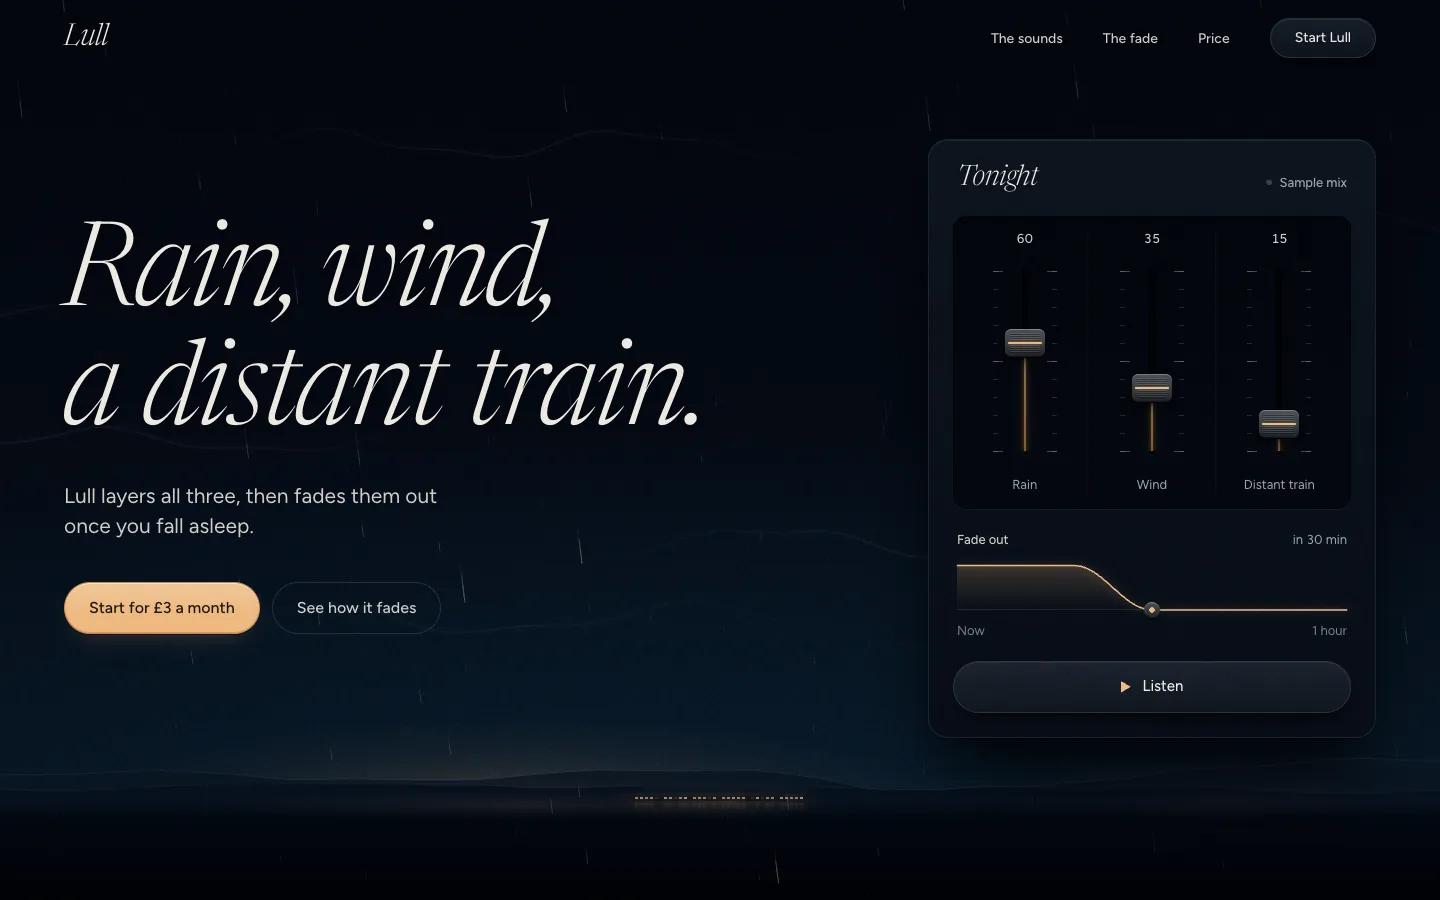
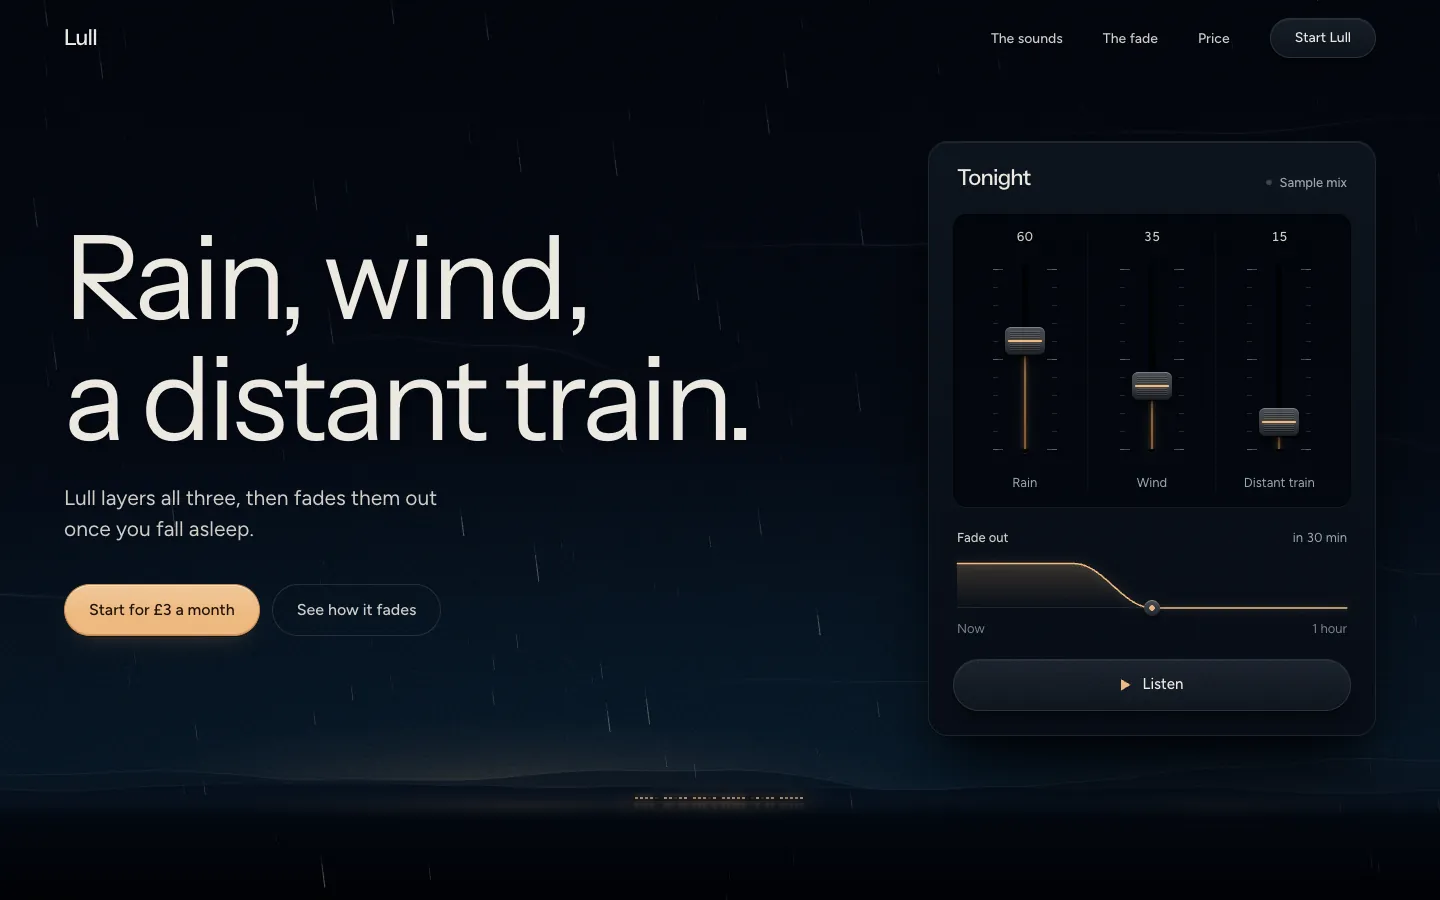
Site: the comparison shows a webhook API in place of sleep sounds, and the Ribbon page and pictures take the new heads

diff --git a/site/themes/ribbon/style.css b/site/themes/ribbon/style.css
@@ -1,7 +1,6 @@
 /* Hallmark · shape: Night Notes (named here: the night mixed on one canvas behind a machined three-fader mixer that really plays, the app's own faders beside the three sounds, a far train photograph, the fade drawn as three levels falling together, the price under the same horizon) · genre: atmospheric · theme: Ribbon (by request) · ribbon: two-in-the-morning, deepened
  * hero: Stage, full-bleed night · nav: edge-aligned over the night · footer: letter close on the land · imagery: generated night (canvas), product built live, one photograph, library 1, muted sepia=14 · product sample in hero, in the app and in the fade
- * axes: dark/high-contrast-serif/warm-amber · posture: committed · contrast: pass · fold: pass · v2.8.0 */
-/* Hallmark · waive 38ii · every head on --font-display is true italic 300 with font-synthesis none, declared in the theme · the light italic is Ribbon's whole display voice */
+ * axes: dark/grotesk-sans/warm-amber · posture: committed · contrast: pass · fold: pass · v2.8.0 */
 @import url("./tokens.css");
 @import url("./base.css");
 
@@ -9,7 +8,7 @@
 
 html { background: var(--color-paper); }
 body { color: var(--color-muted); line-height: 1.6; background: var(--color-paper); font-feature-settings: "kern" 1; }
-h1, h2, h3 { font-style: italic; font-weight: 300; font-variation-settings: "opsz" 72; font-synthesis: none; line-height: 1.02; color: var(--color-ink); }
+h1, h2, h3 { font-weight: 400; font-synthesis: none; line-height: 1.04; color: var(--color-ink); }
 ::selection { background: var(--amber-82-a3-c095h68); color: var(--color-ink); }
 :focus-visible { outline: 2px solid var(--color-focus); outline-offset: 3px; }
 
@@ -48,7 +47,7 @@ h1, h2, h3 { font-style: italic; font-weight: 300; font-variation-settings: "ops
 .nav__links { display: flex; gap: var(--space-xl); margin: 0; padding: 0; list-style: none; }
 .nav__links a { font-size: var(--text-sm); font-weight: 500; color: var(--color-ink-2); text-decoration: underline; text-decoration-color: transparent; text-underline-offset: 0.4em; transition: color var(--dur-short) var(--ease-out), text-decoration-color var(--dur-short) var(--ease-out); }
 .nav__links a:hover { color: var(--color-ink); text-decoration-color: var(--color-accent); }
-.wordmark { font: italic 300 1.875rem/1 var(--font-display); font-variation-settings: "opsz" 72; letter-spacing: var(--tracking-display); color: var(--color-ink); text-decoration: none; transition: color var(--dur-short) var(--ease-out); }
+.wordmark { font: 500 1.375rem/1 var(--font-display); letter-spacing: var(--tracking-display); color: var(--color-ink); text-decoration: none; transition: color var(--dur-short) var(--ease-out); }
 .wordmark:hover { color: var(--color-accent); }
 
 /* ---------- The night: sky and land in CSS, rain, wind and the train on one canvas ---------- */
@@ -95,7 +94,7 @@ h1, h2, h3 { font-style: italic; font-weight: 300; font-variation-settings: "ops
 }
 .mixer::before { content: ""; position: absolute; inset: 0; border-radius: inherit; background-image: var(--grain, none); background-size: 160px 160px; opacity: 0.35; mix-blend-mode: soft-light; pointer-events: none; }
 .mixer__head { display: flex; align-items: baseline; justify-content: space-between; gap: var(--space-md); padding-inline: var(--space-2xs); }
-.mixer__title { font: italic 300 1.75rem/1 var(--font-display); font-variation-settings: "opsz" 72; letter-spacing: var(--tracking-display); color: var(--color-ink); }
+.mixer__title { font: 500 1.375rem/1.1 var(--font-display); letter-spacing: var(--tracking-display); color: var(--color-ink); }
 .mixer__status { display: inline-flex; align-items: center; gap: var(--space-xs); font: 500 var(--text-xs)/1 var(--font-body); color: var(--color-muted); font-variant-numeric: tabular-nums; }
 .led { width: 6px; height: 6px; border-radius: 50%; background: var(--night-38-c012h258); box-shadow: inset 0 1px 1px var(--black-a6); transition: background-color var(--dur-long) var(--ease-out), box-shadow var(--dur-long) var(--ease-out); }
 .is-playing .led { background: var(--color-accent); box-shadow: 0 0 0 3px var(--amber-82-a12-c095h68), 0 0 10px var(--amber-82-a7-c095h68); animation: breathe 3.2s var(--ease-in-out) infinite alternate; }
@@ -188,7 +187,7 @@ h1, h2, h3 { font-style: italic; font-weight: 300; font-variation-settings: "ops
 .sound-list li { display: grid; grid-template-columns: minmax(0, 1fr) auto; grid-template-areas: "name level" "line level"; column-gap: var(--space-xl); row-gap: var(--space-2xs); padding-block: var(--space-lg); border-bottom: var(--rule-hair) solid var(--color-rule); }
 .sound-list h3 { grid-area: name; font-size: var(--text-title); }
 .sound-list p { grid-area: line; }
-.sound-list__level { grid-area: level; align-self: center; min-width: 2ch; text-align: right; font: italic 300 var(--text-3xl)/1 var(--font-display); font-variation-settings: "opsz" 72; font-variant-numeric: lining-nums tabular-nums; color: var(--color-ink); }
+.sound-list__level { grid-area: level; align-self: center; min-width: 2ch; text-align: right; font: 400 var(--text-3xl)/1 var(--font-display); font-variant-numeric: lining-nums tabular-nums; color: var(--color-ink); }
 
 .mix__app { grid-column: 8 / -1; justify-self: center; display: grid; justify-items: center; gap: var(--space-md); }
 .phone { box-sizing: border-box; width: min(100%, 340px); margin: 0; padding: 28px 20px var(--space-lg); border-radius: 44px;
@@ -253,8 +252,8 @@ h1, h2, h3 { font-style: italic; font-weight: 300; font-variation-settings: "ops
 .close__text { grid-column: 1 / span 6; }
 .close__text .lead { margin-top: var(--space-lg); max-width: 34ch; color: var(--color-ink-2); }
 .close__figure { grid-column: 8 / -1; justify-self: end; display: flex; align-items: baseline; gap: var(--space-md); margin: 0; color: var(--color-ink); }
-.close__num { font: italic 300 clamp(6rem, 11vw, 11rem)/0.85 var(--font-display); font-variation-settings: "opsz" 72; letter-spacing: -0.03em; font-variant-numeric: lining-nums; }
-.close__per { font: italic 300 var(--text-2xl)/1 var(--font-display); font-variation-settings: "opsz" 72; color: var(--color-muted); }
+.close__num { font: 400 clamp(6rem, 11vw, 11rem)/0.85 var(--font-display); letter-spacing: -0.05em; font-variant-numeric: lining-nums; }
+.close__per { font: 400 var(--text-2xl)/1 var(--font-display); color: var(--color-muted); }
 .horizon { position: relative; --land: 0px; height: 1px; background: linear-gradient(to right, transparent, var(--night-78-a22-c03h245) 18%, var(--night-78-a22-c03h245) 82%, transparent); }
 .horizon .train { bottom: 3px; animation: cross 52s linear infinite; animation-delay: -14s; will-change: transform; }
 .horizon:not(.is-near) .train { animation-play-state: paused; }
@@ -263,7 +262,7 @@ h1, h2, h3 { font-style: italic; font-weight: 300; font-variation-settings: "ops
 /* ---------- Footer: a letter close on the land ---------- */
 .footer { padding-block: var(--space-3xl) var(--space-xl); background: linear-gradient(to bottom, var(--color-band), var(--night-8_5-c016h258)); }
 .footer__grid { display: grid; grid-template-columns: repeat(12, minmax(0, 1fr)); column-gap: var(--gap-columns); row-gap: var(--space-2xl); align-items: end; }
-.footer__signoff { grid-column: 1 / 8; font: italic 300 var(--text-section)/1.05 var(--font-display); font-variation-settings: "opsz" 72; letter-spacing: var(--tracking-display); color: var(--color-ink); }
+.footer__signoff { grid-column: 1 / 8; font: 400 var(--text-section)/1.05 var(--font-display); letter-spacing: var(--tracking-display); color: var(--color-ink); }
 .footer__links { grid-column: 8 / -1; display: flex; flex-wrap: wrap; justify-content: flex-end; gap: var(--space-xl); }
 .footer__links a { font-size: var(--text-sm); font-weight: 500; color: var(--color-ink-2); text-decoration: underline; text-decoration-color: var(--white-a2); text-underline-offset: 0.4em; transition: color var(--dur-short) var(--ease-out), text-decoration-color var(--dur-short) var(--ease-out); }
 .footer__links a:hover { color: var(--color-ink); text-decoration-color: var(--color-accent); }

diff --git a/site/index.html b/site/index.html
@@ -86,7 +86,7 @@
         <div class="cmp-tabs" role="tablist" aria-label="Prompts" data-cmp-tabs>
           <button class="pill" role="tab" type="button" aria-selected="true" aria-controls="cmp-stage" data-pair="0">Farm records</button>
           <button class="pill" role="tab" type="button" aria-selected="false" tabindex="-1" aria-controls="cmp-stage" data-pair="1">Bank reconciliation</button>
-          <button class="pill" role="tab" type="button" aria-selected="false" tabindex="-1" aria-controls="cmp-stage" data-pair="2">Sleep sounds</button>
+          <button class="pill" role="tab" type="button" aria-selected="false" tabindex="-1" aria-controls="cmp-stage" data-pair="2">Webhook API</button>
         </div>
         <div class="cmp-pin" data-cmp-pin>
         <div class="cmp" id="cmp-stage" role="tabpanel" data-cmp style="--at: 50%">
@@ -107,7 +107,7 @@
         </div>
         </div>
         <p class="cmp-note" data-cmp-note>The issue counts come from Hallmark’s linter. Scroll to read both pages, or drag the line.</p>
-        <script type="application/json" data-cmp-data>[{"id":"fieldbook","label":"Farm records","bareH":3748,"hmH":5713,"bare":26,"hm":0},{"id":"closewise","label":"Bank reconciliation","bareH":4335,"hmH":4097,"bare":11,"hm":0},{"id":"lull","label":"Sleep sounds","bareH":4058,"hmH":4120,"bare":19,"hm":0}]</script>
+        <script type="application/json" data-cmp-data>[{"id":"fieldbook","label":"Farm records","bareH":3748,"hmH":5713,"bare":26,"hm":0},{"id":"closewise","label":"Bank reconciliation","bareH":4335,"hmH":4097,"bare":11,"hm":0},{"id":"relay","label":"Webhook API","bareH":4049,"hmH":4984,"bare":18,"hm":0}]</script>
       </div>
     </section>
 
@@ -188,7 +188,7 @@
           <li class="th" data-genre="modern-minimal"><a class="th__link" href="themes/furrow/" data-slug="furrow" data-name="Furrow" data-mat="A practical farm office on warm paper, with one tangerine." data-genre-name="Modern minimal"><span class="th__shot"><img src="assets/themes/furrow.webp" width="400" height="250" alt="" loading="lazy"></span><span class="th__name">Furrow</span></a></li>
           <li class="th" data-genre="editorial"><a class="th__link" href="themes/studio/" data-slug="studio" data-name="Studio" data-mat="A design studio&#x27;s white wall, the work in true colour." data-genre-name="Editorial"><span class="th__shot"><img src="assets/themes/studio.webp" width="400" height="250" alt="" loading="lazy"></span><span class="th__name">Studio</span></a></li>
           <li class="th" data-genre="editorial"><a class="th__link" href="themes/atelier/" data-slug="atelier" data-name="Atelier" data-mat="A quiet studio in warm daylight, limewash and umber." data-genre-name="Editorial"><span class="th__shot"><img src="assets/themes/atelier.webp" width="400" height="250" alt="" loading="lazy"></span><span class="th__name">Atelier</span></a></li>
-          <li class="th" data-genre="atmospheric"><a class="th__link" href="themes/ribbon/" data-slug="ribbon" data-name="Ribbon" data-mat="Light italics, soft pills and a copper wash." data-genre-name="Atmospheric"><span class="th__shot"><img src="assets/themes/ribbon.webp" width="400" height="250" alt="" loading="lazy"></span><span class="th__name">Ribbon</span></a></li>
+          <li class="th" data-genre="atmospheric"><a class="th__link" href="themes/ribbon/" data-slug="ribbon" data-name="Ribbon" data-mat="A quiet night, machined faders and one lit pill." data-genre-name="Atmospheric"><span class="th__shot"><img src="assets/themes/ribbon.webp" width="400" height="250" alt="" loading="lazy"></span><span class="th__name">Ribbon</span></a></li>
           <li class="th" data-genre="modern-minimal"><a class="th__link" href="themes/dose/" data-slug="dose" data-name="Dose" data-mat="A clinic-clean app with a pale green tint." data-genre-name="Modern minimal"><span class="th__shot"><img src="assets/themes/dose.webp" width="400" height="250" alt="" loading="lazy"></span><span class="th__name">Dose</span></a></li>
           <li class="th" data-genre="modern-minimal"><a class="th__link" href="themes/coral/" data-slug="coral" data-name="Coral" data-mat="A calm app on warm grey, with one coral signal." data-genre-name="Modern minimal"><span class="th__shot"><img src="assets/themes/coral.webp" width="400" height="250" alt="" loading="lazy"></span><span class="th__name">Coral</span></a></li>
           <li class="th" data-genre="atmospheric"><a class="th__link" href="themes/terminal/" data-slug="terminal" data-name="Terminal" data-mat="The page is a terminal, its pictures printed in type." data-genre-name="Atmospheric"><span class="th__shot"><img src="assets/themes/terminal.webp" width="400" height="250" alt="" loading="lazy"></span><span class="th__name">Terminal</span></a></li>

diff --git a/site/themes/ribbon/tokens.css b/site/themes/ribbon/tokens.css
@@ -38,11 +38,11 @@
   --shadow-part: 0 1px 0 oklch(0% 0 0 / 0.55), 0 10px 18px -6px oklch(0% 0 0 / 0.6);
   --shadow-panel: 0 1px 0 oklch(0% 0 0 / 0.5), 0 24px 48px -16px oklch(4% 0.02 258 / 0.85), 0 64px 96px -32px oklch(4% 0.02 258 / 0.7);
 
-  --font-display: "Newsreader", Georgia, serif; --font-body: "Figtree", ui-sans-serif, system-ui, sans-serif;
+  --font-display: "Instrument Sans", ui-sans-serif, system-ui, sans-serif; --font-body: "Figtree", ui-sans-serif, system-ui, sans-serif;
   --font-outlier: "JetBrains Mono", ui-monospace, monospace;
   --radius-card: 20px; --radius-part: 6px; --radius-pill: 999px; --rule-hair: 1px;
   --shadow-card: none;
-  --tracking-display: -0.022em;
+  --tracking-display: -0.035em;
 
   /* Night and lamp steps used by the parts (generated from the stylesheet) */
   --amber-82-a3-c095h68: oklch(82% 0.095 68 / 0.3);

diff --git a/site/themes/ribbon/index.html b/site/themes/ribbon/index.html
@@ -9,7 +9,7 @@
 <script>document.documentElement.classList.add('js');setTimeout(function(){document.documentElement.classList.add('is-ready')},2400);</script>
 <link rel="preconnect" href="https://fonts.googleapis.com">
 <link rel="preconnect" href="https://fonts.gstatic.com" crossorigin>
-<link href="https://fonts.googleapis.com/css2?family=Newsreader:ital,opsz,wght@1,6..72,300&family=Figtree:wght@400;500&display=swap" rel="stylesheet">
+<link href="https://fonts.googleapis.com/css2?family=Instrument+Sans:wght@400;500&family=Figtree:wght@400;500&display=swap" rel="stylesheet">
 <link rel="stylesheet" href="style.css">
 </head>
 <body>
